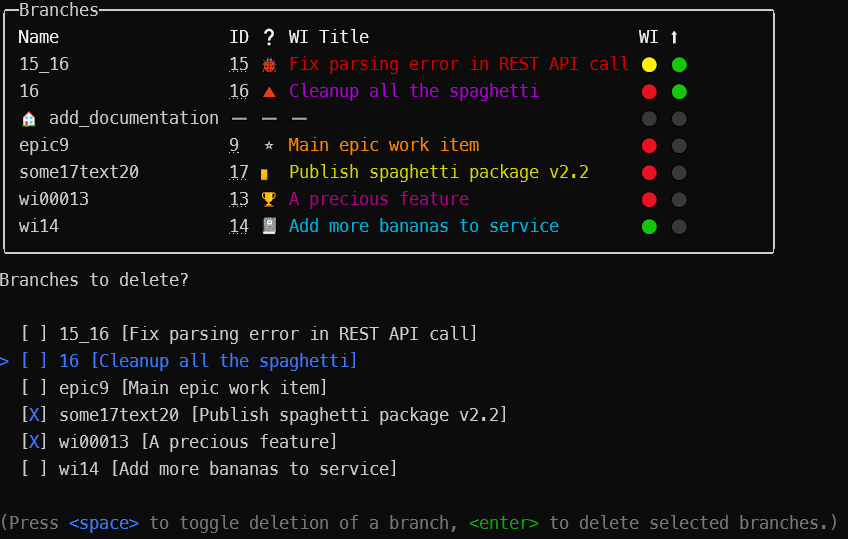
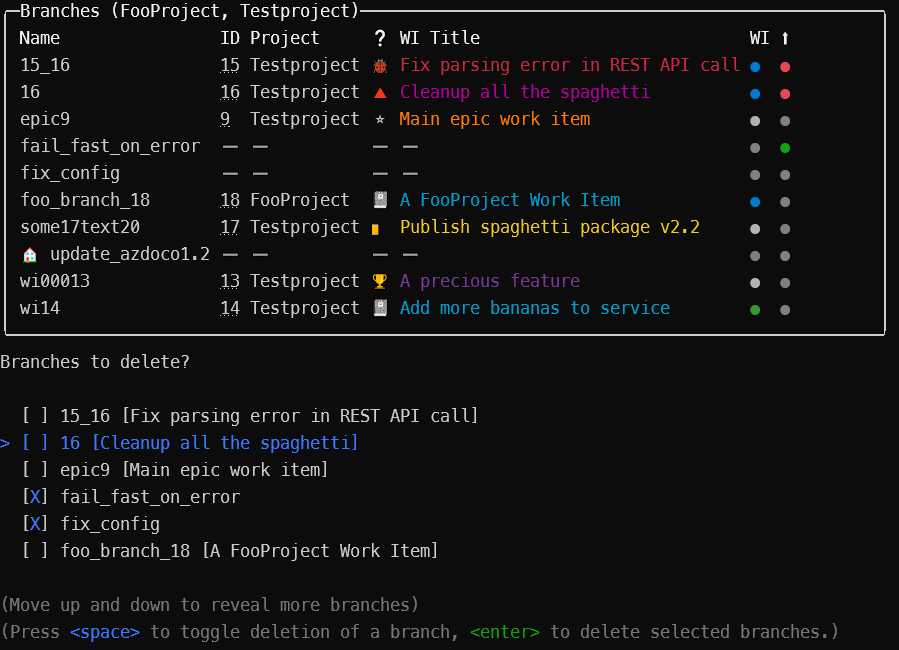
Update docs

diff --git a/src/RepoCleaner/Store/ConsoleSettingsUseCase/ConsoleSettingsState.cs b/src/RepoCleaner/Store/ConsoleSettingsUseCase/ConsoleSettingsState.cs
@@ -7,7 +7,6 @@ namespace Develix.RepoCleaner.Store.ConsoleSettingsUseCase;
 [FeatureState]
 public record ConsoleSettingsState
 {
-    public bool Loading { get; init; }
     public bool ShowDeletePrompt { get; set; }
     public string? Path { get; init; }
     public BranchSourceKind Branches { get; init; }

diff --git a/docs/doc.md b/docs/doc.md
@@ -14,7 +14,8 @@ When updating, be sure not to overwrite your `appSettings.json`.
 | ----------------- | ----------------------------------------------------- |
 | AzureDevopsOrgUri | The URI of your azure devops organization             |
 | ExcludedBranches  | Regex pattern for branches that will not be displayed |
-| ShortProjectNames | A dictionary for shortened project names |
+| ShortProjectNames | A dictionary for shortened project names              |
+| WorkItemTypeIcons | A dictionary for icons for work item types            |
 
 #### ShortProjectNames
 
@@ -26,7 +27,20 @@ ShortProjectNames: {
 }
 ```
 
-Whenever a project with the name _ProjectName_ (case-sensitive) ist found, it will be displayed as _PN_ in the overview table. The shortened project name can be a [Spectre.Console markup string](https://spectreconsole.net/markup). For example: `[bold red]PN[/]`, will display a bold and red text _Foo_.
+Whenever a project with the name _ProjectName_ (case-invariant) ist found, it will be displayed as _PN_ in the overview table. The shortened project name can be a [Spectre.Console markup string](https://spectreconsole.net/markup). For example: `[bold red]PN[/]`, will display a bold and red text _Foo_.
+
+#### WorkItemTypeIcons
+
+This section defines icons for work item types. See the following example for details
+
+```json
+WorkItemTypeIcons: {
+    "Bug": ":lady_beetle:"
+}
+```
+
+Whenever a work item with the type name _Bug_ (case-invariant) ist found, it will be displayed with the given markup (🐞) in the overview table. The icon can be a [Spectre.Console markup string](https://spectreconsole.net/markup) like in this example.  
+If no item is found, the fallback icon (❓) is used.
 
 ### Azure Devops Token
 
@@ -77,22 +91,21 @@ The team project column is only shown if more than one team project is reference
 
 #### Work Item Types
 
-| Icon | Work Item Type       | Color  |
-| ---- | -------------------- | ------ |
-| ⭐   | Epic                 | Orange |
-| 🐞   | Bug                  | Red    |
-| 🏆   | Feature              | Pink   |
-| 📓   | Product Backlog Item | Blue   |
-| 🔺   | Impediment           | Purple |
-| 🗒    | Task                 | Yellow |
+The work item types have associated icons. See the section [WorkItemTypeIcons](#workitemtypeicons) for details.
+
+The work item determines the color of the title. The colors are taken from the Azure Boards work item type.
 
 #### Work Item Status
 
+The work item status has the same color as the Azure Boards work item status.
+
+The default colors are approximately
+
 | Color | Status                                 |
 | ----- | -------------------------------------- |
+| ⚪    | Work item is in a _not started_ status |
+| 🔵    | Work item is in a _precessing_ status  |
 | 🟢    | Work item is in a _done_ status        |
-| 🟡    | Work item is in a _precessing_ status  |
-| 🔴    | Work item is in a _not started_ status |
 | ⚫    | No work item found                     |
 
 #### Upstream Status
